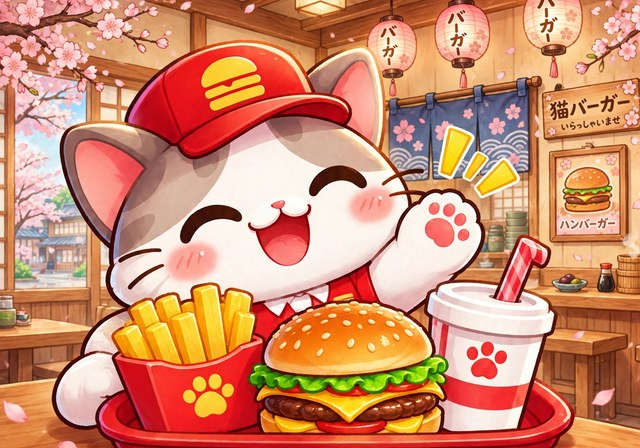
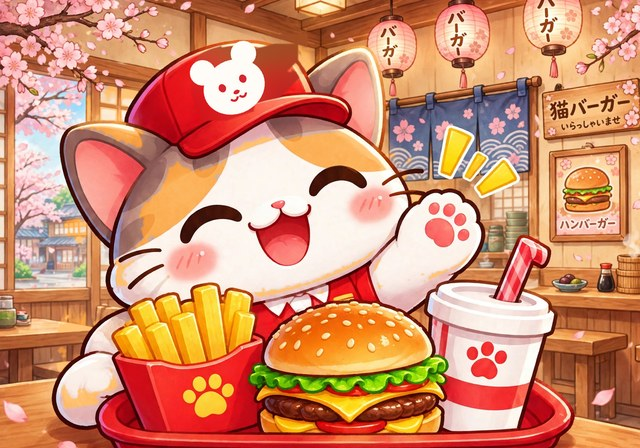
Meow Sakura v1.0.1: character motion fixes, art matched to the player
- Player: use the drawn 4-frame walks facing / away from the camera;
  fix the carry tray point when walking away; idle_270 uses the
  matching profile
- Walk frames fitted to the idle head height (src/19_char_fit.js,
  tools/char_fit.py); no head dip on diagonal / side walks
- Side characters: one drawn walk now serves the diagonal front
  directions too; sideways idle shows the front three-quarter view
- Loading, icons and popups: kit cat recoloured to the player's
  orange with the player's bear cap logo (tools/sakura_cat.py)
- Map stage pictures restyled with pink roofs and sakura
- Character images unchanged; tests/charstrip.js for review

Tests: qa_native 44/44, hs-check 0 fail, full bot 40:47, 0 lost.

Claude-Session: https://claude.ai/code/session_013on7xBLVL2ZtzXn7t1WNZ6

diff --git a/src/60_ui.js b/src/60_ui.js
@@ -97,9 +97,9 @@ const UI={
 function fmtTime(s){s=Math.floor(s);return Math.floor(s/60)+':'+String(s%60).padStart(2,'0')}
 function phaseOf(ti){for(let i=TASK_PHASE.length-1;i>=0;i--){const a=taskIndex(TASK_PHASE[i].from);if(ti>=a){const b=taskIndex(TASK_PHASE[i].to);return{start:a,total:b-a+1}}}return{start:0,total:1}}
 const STAGE_DESC=['Cash register, chicken fryer, tables and the first drink.','Walls go up: storage shelf, burger grill, manager office.','New dining hall, fries, salad, runners, cleaner and the VIP booth.','Bigger kitchen, the Deluxe Burger, second floor and the grand opening.'];
-const STAGE_ART=[
- '<svg viewBox="0 0 120 80"><rect width="120" height="80" rx="10" fill="#cfeaf3"/><rect y="56" width="120" height="24" fill="#dcd3c4"/><rect x="34" y="40" width="52" height="22" fill="#d98f52" stroke="#5a3424" stroke-width="2.5"/><path d="M28 24h64l-4 12H32z" fill="#fff" stroke="#5a3424" stroke-width="2.5"/><path d="M36 24l-2 12M52 24v12M68 24v12M84 24l2 12" stroke="#e2463f" stroke-width="7"/><circle cx="42" cy="64" r="6" fill="#5a3424"/><circle cx="78" cy="64" r="6" fill="#5a3424"/><circle cx="102" cy="40" r="12" fill="#6fb24f" stroke="#5a3424" stroke-width="2.5"/></svg>',
- '<svg viewBox="0 0 120 80"><rect width="120" height="80" rx="10" fill="#cfeaf3"/><rect y="60" width="120" height="20" fill="#a3d06e"/><path d="M22 34l38-20 38 20v30H22z" fill="#f8e6c2" stroke="#5a3424" stroke-width="2.5"/><path d="M16 36l44-24 44 24" fill="none" stroke="#e2463f" stroke-width="6" stroke-linecap="round"/><rect x="52" y="44" width="16" height="20" fill="#b06a36" stroke="#5a3424" stroke-width="2.5"/><rect x="30" y="40" width="14" height="12" fill="#bfe5f3" stroke="#5a3424" stroke-width="2.5"/><rect x="76" y="40" width="14" height="12" fill="#bfe5f3" stroke="#5a3424" stroke-width="2.5"/></svg>',
- '<svg viewBox="0 0 120 80"><rect width="120" height="80" rx="10" fill="#cfeaf3"/><rect y="60" width="120" height="20" fill="#a3d06e"/><path d="M8 36l28-16 28 16v28H8zM56 30l30-18 30 18v34H56z" fill="#f8e6c2" stroke="#5a3424" stroke-width="2.5"/><path d="M4 38l32-18 32 18M52 32l34-20 34 20" fill="none" stroke="#e2463f" stroke-width="5" stroke-linecap="round"/><rect x="78" y="44" width="16" height="20" fill="#b06a36" stroke="#5a3424" stroke-width="2.5"/><rect x="18" y="42" width="12" height="10" fill="#bfe5f3" stroke="#5a3424" stroke-width="2"/><rect x="40" y="42" width="12" height="10" fill="#bfe5f3" stroke="#5a3424" stroke-width="2"/><rect x="62" y="38" width="10" height="10" fill="#bfe5f3" stroke="#5a3424" stroke-width="2"/><rect x="100" y="38" width="10" height="10" fill="#bfe5f3" stroke="#5a3424" stroke-width="2"/></svg>',
- '<svg viewBox="0 0 120 80"><rect width="120" height="80" rx="10" fill="#cfeaf3"/><rect y="64" width="120" height="16" fill="#a3d06e"/><path d="M20 30l40-22 40 22v36H20z" fill="#f8e6c2" stroke="#5a3424" stroke-width="2.5"/><path d="M14 32l46-26 46 26" fill="none" stroke="#e2463f" stroke-width="5" stroke-linecap="round"/><path d="M20 46h80" stroke="#b06a36" stroke-width="4"/><path d="M24 44v-6M36 44v-6M48 44v-6M72 44v-6M84 44v-6M96 44v-6" stroke="#b06a36" stroke-width="2.5"/><rect x="52" y="50" width="16" height="16" fill="#b06a36" stroke="#5a3424" stroke-width="2.5"/><rect x="30" y="26" width="12" height="10" fill="#bfe5f3" stroke="#5a3424" stroke-width="2"/><rect x="78" y="26" width="12" height="10" fill="#bfe5f3" stroke="#5a3424" stroke-width="2"/><circle cx="60" cy="24" r="5" fill="#f8c84a" stroke="#5a3424" stroke-width="2"/></svg>',
+const STAGE_ART=[ /* Meow Sakura: pink roofs and awning, sakura trees and petals */
+ '<svg viewBox="0 0 120 80"><rect width="120" height="80" rx="10" fill="#cfeaf3"/><rect y="56" width="120" height="24" fill="#dcd3c4"/><rect x="34" y="40" width="52" height="22" fill="#d98f52" stroke="#5a3424" stroke-width="2.5"/><path d="M28 24h64l-4 12H32z" fill="#fff" stroke="#5a3424" stroke-width="2.5"/><path d="M36 24l-2 12M52 24v12M68 24v12M84 24l2 12" stroke="#ef7f9d" stroke-width="7"/><circle cx="42" cy="64" r="6" fill="#5a3424"/><circle cx="78" cy="64" r="6" fill="#5a3424"/><circle cx="102" cy="40" r="12" fill="#f5a9be" stroke="#5a3424" stroke-width="2.5"/><g fill="#f9b8c9"><circle cx="12" cy="14" r="2"/><circle cx="110" cy="10" r="1.6"/><circle cx="104" cy="22" r="1.4"/><circle cx="18" cy="26" r="1.4"/></g></svg>',
+ '<svg viewBox="0 0 120 80"><rect width="120" height="80" rx="10" fill="#cfeaf3"/><rect y="60" width="120" height="20" fill="#a3d06e"/><path d="M22 34l38-20 38 20v30H22z" fill="#f8e6c2" stroke="#5a3424" stroke-width="2.5"/><path d="M16 36l44-24 44 24" fill="none" stroke="#ef7f9d" stroke-width="6" stroke-linecap="round"/><rect x="52" y="44" width="16" height="20" fill="#b06a36" stroke="#5a3424" stroke-width="2.5"/><rect x="30" y="40" width="14" height="12" fill="#bfe5f3" stroke="#5a3424" stroke-width="2.5"/><rect x="76" y="40" width="14" height="12" fill="#bfe5f3" stroke="#5a3424" stroke-width="2.5"/><g fill="#f9b8c9"><circle cx="12" cy="14" r="2"/><circle cx="110" cy="10" r="1.6"/><circle cx="104" cy="22" r="1.4"/><circle cx="18" cy="26" r="1.4"/></g><path d="M106 64v-12" stroke="#8a5a40" stroke-width="3"/><circle cx="106" cy="46" r="9" fill="#f5a9be" stroke="#c97894" stroke-width="2"/><circle cx="103" cy="43" r="3.5" fill="#fcc6d4"/><g stroke="#5a3424" stroke-width="1.5"><ellipse cx="30" cy="38" rx="3.5" ry="4.5" fill="#fff3e6"/><ellipse cx="90" cy="38" rx="3.5" ry="4.5" fill="#fff3e6"/></g><path d="M26.5 37h7M86.5 37h7" stroke="#e8506a" stroke-width="1.5"/></svg>',
+ '<svg viewBox="0 0 120 80"><rect width="120" height="80" rx="10" fill="#cfeaf3"/><rect y="60" width="120" height="20" fill="#a3d06e"/><path d="M8 36l28-16 28 16v28H8zM56 30l30-18 30 18v34H56z" fill="#f8e6c2" stroke="#5a3424" stroke-width="2.5"/><path d="M4 38l32-18 32 18M52 32l34-20 34 20" fill="none" stroke="#ef7f9d" stroke-width="5" stroke-linecap="round"/><rect x="78" y="44" width="16" height="20" fill="#b06a36" stroke="#5a3424" stroke-width="2.5"/><rect x="18" y="42" width="12" height="10" fill="#bfe5f3" stroke="#5a3424" stroke-width="2"/><rect x="40" y="42" width="12" height="10" fill="#bfe5f3" stroke="#5a3424" stroke-width="2"/><rect x="62" y="38" width="10" height="10" fill="#bfe5f3" stroke="#5a3424" stroke-width="2"/><rect x="100" y="38" width="10" height="10" fill="#bfe5f3" stroke="#5a3424" stroke-width="2"/><g fill="#f9b8c9"><circle cx="12" cy="14" r="2"/><circle cx="110" cy="10" r="1.6"/><circle cx="104" cy="22" r="1.4"/><circle cx="18" cy="26" r="1.4"/></g></svg>',
+ '<svg viewBox="0 0 120 80"><rect width="120" height="80" rx="10" fill="#cfeaf3"/><rect y="64" width="120" height="16" fill="#a3d06e"/><path d="M20 30l40-22 40 22v36H20z" fill="#f8e6c2" stroke="#5a3424" stroke-width="2.5"/><path d="M14 32l46-26 46 26" fill="none" stroke="#ef7f9d" stroke-width="5" stroke-linecap="round"/><path d="M20 46h80" stroke="#b06a36" stroke-width="4"/><path d="M24 44v-6M36 44v-6M48 44v-6M72 44v-6M84 44v-6M96 44v-6" stroke="#b06a36" stroke-width="2.5"/><rect x="52" y="50" width="16" height="16" fill="#b06a36" stroke="#5a3424" stroke-width="2.5"/><rect x="30" y="26" width="12" height="10" fill="#bfe5f3" stroke="#5a3424" stroke-width="2"/><rect x="78" y="26" width="12" height="10" fill="#bfe5f3" stroke="#5a3424" stroke-width="2"/><circle cx="60" cy="24" r="5" fill="#f8c84a" stroke="#5a3424" stroke-width="2"/><g fill="#f9b8c9"><circle cx="12" cy="14" r="2"/><circle cx="110" cy="10" r="1.6"/><circle cx="104" cy="22" r="1.4"/><circle cx="18" cy="26" r="1.4"/></g><path d="M106 64v-12" stroke="#8a5a40" stroke-width="3"/><circle cx="106" cy="46" r="9" fill="#f5a9be" stroke="#c97894" stroke-width="2"/><circle cx="103" cy="43" r="3.5" fill="#fcc6d4"/></svg>',
 ];

diff --git a/src/50_render.js b/src/50_render.js
@@ -57,17 +57,19 @@ function drawStaff(e,name,anim){
 /* ---- customers / VIP / cleaner / manager: approved art (8-direction idle; drawn walk cycles where the sheet has them,
         otherwise the body stays still and only the leg strip steps) ---- */
 const SHEET_H={chef:1.06,cashier:1.0,waiter:1.0,cleaner:1.0,cat01:.95,cat02:.95,cat03:.95,cat04:.95,vip01:1.0,vip02:1.0,manager:1.0};
-/* Meow Sakura sheets: the player has a full 8-direction walk + tray-carry set; the other roles have one drawn walk
-   (screen-right, mirrored for screen-left) and step their legs on the 8-direction idle art for the other directions.
-   A few side-profile idles lost face fill when cut, so those directions reuse the clean neighbour view. */
-const SIDE_WALK={walk:{90:[270,1]}};
+/* Character sheets: the player has a full 8-direction walk + tray-carry set; the other roles have one drawn walk
+   (front three-quarter, screen-right). That walk serves screen-right (270) and down-right (315) as drawn, and screen-left (90)
+   and down-left (45) mirrored; the other directions step the legs on the 8-direction idle art.
+   Standing sideways (90/270) shows the front three-quarter idle, the same view as the walk, so a cat does not turn its back
+   when it stops (this also covers the side idles that lost face fill when cut). The player's idle_270 is drawn as a back
+   view, so it uses idle_90 mirrored, which matches its walk_270 profile. Walk frames are fitted to the idle head height by
+   CHAR_FIT (src/19_char_fit.js, tools/char_fit.py; keep the two remap tables in step). */
+const SIDE_REMAP={idle:{90:[45,0],270:[315,0]},walk:{45:[270,1],90:[270,1],315:[270,0]}};
 const SHEET_REMAP={
-  chef:{walk:{0:'legs',180:'legs'}},
-  cashier:SIDE_WALK, waiter:SIDE_WALK, cleaner:SIDE_WALK, cat01:SIDE_WALK, cat03:SIDE_WALK, vip02:SIDE_WALK,
-  cat02:{idle:{90:[45,0],270:[315,0]},walk:{90:[270,1]}},
-  cat04:{idle:{135:[225,1]},walk:{90:[270,1]}},
-  vip01:{idle:{90:[270,1]},walk:{90:[270,1]}},
-  manager:{idle:{90:[270,1]},walk:{90:[270,1]}},
+  chef:{idle:{270:[90,1]}},
+  cashier:SIDE_REMAP, waiter:SIDE_REMAP, cleaner:SIDE_REMAP, cat01:SIDE_REMAP, cat02:SIDE_REMAP, cat03:SIDE_REMAP,
+  vip01:SIDE_REMAP, vip02:SIDE_REMAP, manager:SIDE_REMAP,
+  cat04:{idle:{90:[45,0],270:[315,0],45:[315,1],135:[225,1]},walk:SIDE_REMAP.walk},   /* cat04 idle_45 / idle_135: tail clipped when cut */
 };
 /* number of drawn walk frames per set/direction (the new sheets have 5–8) */
 const WALK_N={}; function walkN(name,d){ const key=name+d; if(WALK_N[key]===undefined){ let n=0; while(MORE_SPRITES[name]['walk'+(n+1)+'_'+d]) n++; WALK_N[key]=n; } return WALK_N[key]; }
@@ -84,20 +86,23 @@ function drawSheetChar(e,name,anim,opts={}){
   else if(anim==='collect'&&set.collect) pose(set.collect);
   else if(anim==='tablet'&&set.tablet1) pose(set['tablet'+(1+Math.floor(t*3)%4)]);
   else if(anim==='talk'&&set.talk_happy) pose(set.talk_happy);
-  else if(e.carry&&e.carry.length&&!seated&&set['cwalk1_'+d]){ if(walking&&(d===0||d===180)){ m=set['cwalk1_'+d]; legs=true; } else m=set['cwalk'+(walking?1+Math.floor(t*8)%4:1)+'_'+d]; flip=0; }
+  else if(e.carry&&e.carry.length&&!seated&&set['cwalk1_'+d]){ m=set['cwalk'+(walking?1+Math.floor(t*8)%4:1)+'_'+d]; flip=0; }
   else if(walking){ const rw=rm.walk&&rm.walk[d];
-    if(rw==='legs'||!set['walk1_'+d]) legs=true;
-    else { const [wd,wf]=rw||[d,0], n=walkN(name,wd)||4; m=set['walk'+(1+Math.floor(t*(n>4?11:8))%n)+'_'+wd]; flip=wf; } }
+    const [wd,wf]=Array.isArray(rw)?rw:[d,0];
+    if(rw==='legs'||!set['walk1_'+wd]) legs=true;   /* no drawn walk for this direction: step the legs on the idle art */
+    else { const n=walkN(name,wd)||4; m=set['walk'+(1+Math.floor(t*(n>4?11:8))%n)+'_'+wd]; flip=wf; } }
   if(!m||!m.img) return [sx,sy0];
   const k=TW*(SHEET_H[name]||1)/150*(opts.scale||1)*m.s;
   let sy=sy0, dx=0, sqx=1, sqy=1;
+  const fitK=m.key&&CHAR_FIT[name]&&CHAR_FIT[name][m.key]; if(fitK&&!legs) sqy=fitK[d]||1;   /* walk frame fitted to the idle head height */
   if(anim==='happy') sy-=Math.abs(Math.sin(t*7))*TW*.05;
   if(anim==='mad'||anim==='sitmad') dx=Math.sin(t*38)*TW*.012;
   if(anim==='eat'){ const b=Math.max(0,Math.sin(t*6)); sqy=1-b*.035; sqx=1+b*.02; }
   if(!walking&&!seated&&anim!=='sleep'){ const br=Math.sin(t*2.2+(e.seed||0))*.012; sqy*=1+br; sqx*=1-br*.5; }
   if(!seated){ctx.save();ctx.fillStyle=COL.shadow;ctx.beginPath();ctx.ellipse(sx,sy0,TW*.24*(opts.scale||1),TW*.085*(opts.scale||1),0,0,7);ctx.fill();ctx.restore();}
-  const hand=m.tray?m.tray:(SHEET_HAND[d]||SHEET_HAND[0]);
-  const hx=sx+(hand[0]*m.w-m.ax)*k, hy=sy+(hand[1]*m.h-m.ay)*k;
+  const trayFix=m.key&&CHAR_TRAY[name]&&CHAR_TRAY[name][m.key];
+  const hand=trayFix||m.tray||(SHEET_HAND[d]||SHEET_HAND[0]);
+  const hx=sx+(hand[0]*m.w-m.ax)*k, hy=sy+(hand[1]*m.h-m.ay)*k*sqy;
   const holding=e.carry&&e.carry.length&&!seated&&anim!=='sleep';
   const back=d>=135&&d<=225;
   const stack=()=>drawHeldStack(e.carry,hx,hy,opts.customer,!!m.tray);

diff --git a/src/19_char_fit.js b/src/19_char_fit.js
@@ -1,0 +1,4 @@
+/* 19_char_fit.js — per-frame vertical fit of walk / carry-walk frames to the idle head height, and tray-point overrides.
+   AUTO-GENERATED by tools/char_fit.py from src/16_more_sprites.js (character art unchanged). */
+const CHAR_FIT={"chef":{"walk1_0":{"0":0.995},"walk2_0":{"0":0.989},"walk3_0":{"0":0.995},"walk4_0":{"0":0.983},"cwalk1_0":{"0":1.016},"cwalk2_0":{"0":1.011},"cwalk3_0":{"0":1.016},"cwalk4_0":{"0":1.011},"walk1_45":{"45":1.09},"walk2_45":{"45":1.09},"walk3_45":{"45":1.087},"walk4_45":{"45":1.08},"cwalk1_45":{"45":1.09},"cwalk2_45":{"45":1.09},"cwalk3_45":{"45":1.09},"cwalk4_45":{"45":1.082},"walk1_90":{"90":1.074},"walk2_90":{"90":1.06},"walk3_90":{"90":1.06},"walk4_90":{"90":1.053},"cwalk1_90":{"90":1.037},"cwalk2_90":{"90":1.025},"cwalk3_90":{"90":1.013},"cwalk4_90":{"90":0.996},"walk1_135":{"135":1.002},"walk2_135":{"135":1.002},"walk3_135":{"135":1.002},"walk4_135":{"135":1.002},"cwalk1_135":{"135":1.042},"cwalk2_135":{"135":1.055},"cwalk3_135":{"135":1.042},"cwalk4_135":{"135":1.035},"walk1_180":{"180":0.945},"walk2_180":{"180":0.934},"walk3_180":{"180":0.945},"walk4_180":{"180":0.94},"cwalk1_180":{"180":0.955},"cwalk2_180":{"180":0.95},"cwalk3_180":{"180":0.944},"cwalk4_180":{"180":0.944},"walk1_225":{"225":1.008},"walk2_225":{"225":1.008},"walk3_225":{"225":1.008},"walk4_225":{"225":1.008},"cwalk1_225":{"225":1.023},"cwalk2_225":{"225":1.035},"cwalk3_225":{"225":1.023},"cwalk4_225":{"225":1.023},"walk1_270":{"270":1.04},"walk2_270":{"270":1.06},"walk3_270":{"270":1.047},"walk4_270":{"270":1.047},"cwalk1_270":{"270":1.031},"cwalk2_270":{"270":0.99},"cwalk3_270":{"270":1.031},"cwalk4_270":{"270":1.013},"walk1_315":{"315":1.09},"walk2_315":{"315":1.09},"walk3_315":{"315":1.09},"walk4_315":{"315":1.082},"cwalk1_315":{"315":1.09},"cwalk2_315":{"315":1.09},"cwalk3_315":{"315":1.09},"cwalk4_315":{"315":1.09}},"cashier":{"walk1_270":{"45":1.027,"90":1.027,"270":1.031,"315":1.031},"walk2_270":{"45":1.027,"90":1.027,"270":1.031,"315":1.031},"walk3_270":{"45":1.027,"90":1.027,"270":1.031,"315":1.031},"walk4_270":{"45":1.027,"90":1.027,"270":1.031,"315":1.031}},"waiter":{"walk1_270":{"45":1.026,"90":1.026,"270":1.031,"315":1.031},"walk2_270":{"45":1.026,"90":1.026,"270":1.031,"315":1.031},"walk3_270":{"45":1.026,"90":1.026,"270":1.031,"315":1.031},"walk4_270":{"45":1.026,"90":1.026,"270":1.031,"315":1.031}},"cleaner":{"walk1_270":{"45":1.029,"90":1.029,"270":1.029,"315":1.029},"walk2_270":{"45":1.029,"90":1.029,"270":1.029,"315":1.029},"walk3_270":{"45":1.029,"90":1.029,"270":1.029,"315":1.029},"walk4_270":{"45":1.029,"90":1.029,"270":1.029,"315":1.029}},"cat01":{"walk1_270":{"45":1.031,"90":1.031,"270":1.031,"315":1.031},"walk2_270":{"45":1.031,"90":1.031,"270":1.031,"315":1.031},"walk3_270":{"45":1.031,"90":1.031,"270":1.031,"315":1.031},"walk4_270":{"45":1.035,"90":1.035,"270":1.035,"315":1.035}},"cat02":{"walk1_270":{"45":1.029,"90":1.029,"270":1.029,"315":1.029},"walk2_270":{"45":1.033,"90":1.033,"270":1.033,"315":1.033},"walk3_270":{"45":1.029,"90":1.029,"270":1.029,"315":1.029},"walk4_270":{"45":1.033,"90":1.033,"270":1.033,"315":1.033}},"cat03":{"walk1_270":{"45":1.031,"90":1.031,"270":1.026,"315":1.026},"walk2_270":{"45":1.035,"90":1.035,"270":1.031,"315":1.031},"walk3_270":{"45":1.031,"90":1.031,"270":1.026,"315":1.026},"walk4_270":{"45":1.031,"90":1.031,"270":1.026,"315":1.026}},"cat04":{"walk1_270":{"45":1.031,"90":1.031,"270":1.031,"315":1.031},"walk2_270":{"45":1.022,"90":1.022,"270":1.022,"315":1.022},"walk3_270":{"45":1.031,"90":1.031,"270":1.031,"315":1.031},"walk4_270":{"45":1.031,"90":1.031,"270":1.031,"315":1.031}},"vip01":{"walk1_270":{"45":1.031,"90":1.031,"270":1.031,"315":1.031},"walk2_270":{"45":1.031,"90":1.031,"270":1.031,"315":1.031},"walk3_270":{"45":1.031,"90":1.031,"270":1.031,"315":1.031},"walk4_270":{"45":1.026,"90":1.026,"270":1.026,"315":1.026}},"vip02":{"walk1_270":{"45":1.031,"90":1.031,"270":1.026,"315":1.026},"walk2_270":{"45":1.031,"90":1.031,"270":1.026,"315":1.026},"walk3_270":{"45":1.031,"90":1.031,"270":1.026,"315":1.026},"walk4_270":{"45":1.031,"90":1.031,"270":1.026,"315":1.026}},"manager":{"walk1_270":{"45":1.031,"90":1.031,"270":1.031,"315":1.031},"walk2_270":{"45":1.031,"90":1.031,"270":1.031,"315":1.031},"walk3_270":{"45":1.031,"90":1.031,"270":1.031,"315":1.031},"walk4_270":{"45":1.031,"90":1.031,"270":1.031,"315":1.031}}};
+const CHAR_TRAY={"chef":{"cwalk1_180":[0.5,0.5],"cwalk2_180":[0.5,0.5],"cwalk3_180":[0.5,0.5],"cwalk4_180":[0.5,0.5]}};

diff --git a/tests/charstrip.js b/tests/charstrip.js
@@ -1,0 +1,27 @@
+// Renders a character's frames in the real renderer, for art review.
+// usage: node tests/charstrip.js OUT.png [who=player|<worker role>|<customer skin>] [carry=1] [anims=walk]
+const {chromium}=require('/opt/npm-tools/node_modules/playwright');const fs=require('fs'),path=require('path'),http=require('http');
+const DIST=path.join(__dirname,'..','dist');
+const srv=http.createServer((q,r)=>fs.readFile(path.join(DIST,q.url==='/'?'index.html':q.url.split('?')[0]),(e,d)=>{if(e){r.statusCode=404;return r.end()}r.end(d)}));
+const [OUT,WHO='player',CARRY='0',ANIM='walk']=process.argv.slice(2);
+(async()=>{await new Promise(ok=>srv.listen(0,ok));const b=await chromium.launch();const p=await b.newPage({viewport:{width:400,height:400},deviceScaleFactor:1});
+ await p.goto(`http://localhost:${srv.address().port}/index.html`);await p.waitForFunction(()=>window.__cpStarted,null,{timeout:60000});
+ const urls=await p.evaluate(([WHO,CARRY,ANIM])=>{const A=__cp;A.DEBUG.noModal=true;try{A.UI.close()}catch(e){};A.DEBUG.zoom=2.4;window.dispatchEvent(new Event('resize'));
+  const pl=A.player; pl.x=9;pl.y=4; const cv=document.getElementById('game'), out=[];
+  let e=pl; const hide=[];
+  if(WHO!=='player'){ e={x:10.2,y:2.8,dir:0,t:0,carry:[],seed:0,skin:WHO,walking:false}; }
+  const dirs=[0,45,90,135,180,225,270,315];
+  for(const d of dirs){ const row=[];
+    for(let f=0;f<5;f++){ const walking=f>0;
+      if(WHO==='player'){ pl.dir=d; pl.walking=walking; pl.carry=CARRY==='1'?['pizza','drink','pizza']:[]; pl.t=walking?(f-1)/8+.01:0; pl.happyT=0; }
+      else { e.dir=d; e.walking=walking; e.carry=CARRY==='1'?['pizza']:[]; e.t=walking?(f-1)/11+.01:0; }
+      A.customers.length=0; for(const w of A.workers) w.x=-50;
+      for(let i=0;i<40;i++) A.render();
+      if(WHO!=='player'){ /* draw the extra character on top through the customer list */ A.customers.push(Object.assign(e,{state:walking?'enter':'queue',patience:9,pMax:9,order:{},got:{}})); A.render(); A.customers.length=0; }
+      const W=cv.width,H=cv.height, c=document.createElement('canvas'); const X0=WHO==='player'?.3:.52; c.width=W*.4; c.height=H*.55; c.getContext('2d').drawImage(cv,W*X0,H*.12,W*.4,H*.55,0,0,W*.4,H*.55); row.push(c.toDataURL()); }
+    out.push(row); }
+  return out; },[WHO,CARRY,ANIM]);
+ const pg=await b.newPage({viewport:{width:900,height:1800}});
+ await pg.setContent('<body style="margin:0;background:#fff">'+urls.map(r=>'<div style="display:flex">'+r.map(u=>`<img src="${u}">`).join('')+'</div>').join('')+'</body>');
+ await pg.waitForTimeout(300); await pg.screenshot({path:OUT,fullPage:true});
+ await b.close();srv.close();})();

diff --git a/src/23_assets.js b/src/23_assets.js
@@ -66,7 +66,7 @@ async function preloadAssets(onProgress){
      raw_* the same art, paler and less baked, for the oven / prep board. Baked at 3x for crisp high-DPI rendering. */
   for(const k in FOOD_ART) jobs.push(async()=>{ try{ const im=await loadImage(FOOD_ART[k]); bakeFoodArt(k,im); ASSET_REPORT.loaded++; } catch(err){ ASSET_REPORT.missing.push('food_'+k); } });
   for(const k in KIT_OBJ) jobs.push(async()=>{ try{ const im=await loadImage(KIT_OBJ[k].src); bakeKitObj(k,im,KIT_OBJ[k]); ASSET_REPORT.loaded++; } catch(err){ ASSET_REPORT.missing.push('kit_'+k); } });
-  for(const name in MORE_SPRITES) for(const pose in MORE_SPRITES[name]){ const m=MORE_SPRITES[name][pose];
+  for(const name in MORE_SPRITES) for(const pose in MORE_SPRITES[name]){ const m=MORE_SPRITES[name][pose]; m.key=pose;
     jobs.push(async()=>{ try{ m.img=await loadImage(m.src); ASSET_REPORT.loaded++; } catch(err){ ASSET_REPORT.missing.push(name+'_'+pose); } }); }
   for(const k in ENV_ART) jobs.push(async()=>{ try{ const im=await loadImage(ENV_ART[k].src); ENV[k]={img:im,w:ENV_ART[k].w,h:ENV_ART[k].h,tip:ENV_ART[k].tip||.5}; ASSET_REPORT.loaded++; } catch(err){ ASSET_REPORT.missing.push('env_'+k); } });
   let done=0; const total=jobs.length||1, q=jobs.slice();

diff --git a/src/00_config.js b/src/00_config.js
@@ -1,7 +1,7 @@
 /* =====================================================================
    00_config.js — every tunable number lives here (data-driven design)
    ===================================================================== */
-const VERSION='1.0.0';   /* Meow Sakura */
+const VERSION='1.0.1';   /* Meow Sakura */
 const SAVE_KEY='meowsakura.v3', LEGACY_SAVE_KEY='meowsakura.v0'; /* v4 keeps the v3 save format */
 const REF=144;          // sprite resolution: px per tile width for object sprites
 const REF_C=128;        // sprite resolution for character sheets

diff --git a/tools/sakura_cat.py b/tools/sakura_cat.py
@@ -1,0 +1,106 @@
+# Meow Sakura: make the cat in the TikTok UI art (loading, icon, popups) look like the player cat.
+# The kit art shows a grey-and-white cat with a burger logo on its cap; the player is an orange-and-cream cat with a
+# white bear-face logo on its red cap. This recolours the grey fur to the player's orange (hue shift that keeps the
+# shading; white fur stays white / turns cream at the edges) and replaces the cap logo with the player's bear face.
+# Used by tools/sakura_art.py. Regions are hand-placed per kit image (pixel coordinates of the kit files).
+import numpy as np
+from PIL import Image,ImageDraw,ImageFilter
+from matplotlib.colors import rgb_to_hsv,hsv_to_rgb
+import cv2
+CAT={  # kit file -> fur polygons, cap-logo search box
+ 'icon_512_jp.png':dict(poly=[[(165,380),(330,250),(820,170),(1000,160),(1060,250),(1100,520),(1200,560),(1260,640),(1250,800),(1150,860),(700,900),(260,880),(250,820),(240,700),(170,620)],
+                              [(60,1050),(200,980),(230,1250),(70,1300)]],logo=(500,200,760,380)),
+ 'pop_share_art_jp.jpg':dict(poly=[[(150,330),(330,160),(800,120),(1000,105),(1095,125),(1100,300),(1150,480),(1310,560),(1320,700),(1150,780),(800,820),(300,780),(200,700),(150,520)],
+                                   [(180,850),(330,860),(330,1100),(180,1120),(150,950)]],logo=(520,120,820,320),it=4,t=.7),
+ 'loading_bg_jp.jpg':dict(poly=[[(200,1040),(300,960),(650,930),(800,940),(820,1100),(900,1130),(960,1250),(820,1330),(560,1360),(330,1340),(240,1260),(200,1150)]],logo=(400,900,620,1060),it=4,t=.7),
+ 'pop_home_art_jp.jpg':dict(poly=[[(1030,300),(1130,270),(1200,205),(1400,205),(1420,250),(1425,350),(1490,370),(1500,460),(1400,490),(1230,470),(1100,480),(1050,430)]],logo=(1170,190,1290,300),it=3),
+ 'pop_revisit_profile_jp.jpg':dict(poly=[[(370,760),(400,700),(470,650),(560,640),(620,640),(690,650),(720,720),(730,820),(700,880),(560,900),(430,920),(380,880)]],logo=(440,650,560,740),it=3),
+}
+ORANGE_H=0.094
+def smooth(x,a,b): t=np.clip((x-a)/(b-a),0,1); return t*t*(3-2*t)
+RAMP=np.array([[.30,(150,70,24)],[.62,(226,124,42)],[.84,(250,166,72)],[.97,(255,196,118)],[1.0,(255,214,150)]],dtype=object)
+def ramp(v):
+    xs=np.array([r[0] for r in RAMP],float); cs=np.array([r[1] for r in RAMP],float)
+    return np.stack([np.interp(v,xs,cs[:,k]) for k in range(3)],-1)/255
+def cat_mask(A,poly,it=6,t=.6):
+    """the cat's own areas: regions between the dark outlines that lie mostly inside the hand-placed polygon"""
+    from scipy import ndimage
+    v=A[...,:3].max(2)/255; dark=ndimage.binary_dilation(v<t,iterations=it)   # thick enough to close gaps in the outline
+    lab,n=ndimage.label(~dark); P=poly>.5
+    area=ndimage.sum(np.ones_like(P),lab,range(1,n+1)); inside=ndimage.sum(P,lab,range(1,n+1))
+    keep=np.zeros(n+1,bool); keep[1:]=(inside/np.maximum(area,1)>.3)
+    m=keep[lab]&P; m=ndimage.binary_dilation(m,iterations=it+2)&ndimage.binary_dilation(P,iterations=3)
+    return m.astype(float)
+def recolor_fur(A,mask):
+    rgb=A[...,:3].astype(float)/255; hsv=rgb_to_hsv(rgb); h,s,v=hsv[...,0],hsv[...,1],hsv[...,2]
+    hdeg=h*360
+    # the kit's grey fur is warm in the light (hue 12-50) and cool / pinkish in the shade; pinks with more colour
+    # (inner ears, blush, nose, tongue) and white fur are left alone
+    pinkz=(hdeg>=330)|(hdeg<12); coolz=(hdeg>=285)&(hdeg<330); warmz=(hdeg>=12)&(hdeg<52)
+    w=(pinkz*smooth(s,.06,.10)*(1-smooth(s,.22,.28))+coolz*smooth(s,.06,.10)*(1-smooth(s,.32,.40))
+       +(s<.08)*smooth(v,.40,.46)*(1-smooth(v,.74,.82))   # neutral grey (ear backs)
+       +warmz*smooth(s,.08+.10*smooth(v,.86,.97),.14+.10*smooth(v,.86,.97))*(1-smooth(s,.55,.65)))*smooth(v,.40,.50)   # pale warm shading on white fur stays white
+    # soft pink blush fades through fur-like tones: keep a ring around strong pinks out of the recolour
+    from scipy import ndimage
+    pink=((hdeg>=330)|(hdeg<12))&(s>.25)&(v>.6)
+    near=ndimage.binary_dilation(pink,iterations=max(3,int(A.shape[1]/160)))
+    w=w*(1-near)
+    w=np.clip(w*mask,0,1)
+    w=np.array(Image.fromarray((w*255).astype(np.uint8)).filter(ImageFilter.MedianFilter(5)).filter(ImageFilter.GaussianBlur(1.5))).astype(float)/255
+    # grey fur -> the player's orange: the darker the grey, the deeper the orange (keeps the painted shading)
+    vn=np.clip((v-.55)/(.93-.55),0,1)*.37+.6   # map the kit's grey range onto the ramp's orange range
+    new=ramp(vn)
+    out=rgb*(1-w[...,None])+new*w[...,None]
+    return (out*255).round().astype(np.uint8), w
+def bear(d,cx,cy,S,fg=(255,251,246),red=(214,40,46)):
+    """the player's cap logo: white bear head with red eyes and mouth (S = head width)"""
+    for ex in (-1,1): d.ellipse([cx+ex*.36*S-.2*S,cy-.42*S-.2*S,cx+ex*.36*S+.2*S,cy-.42*S+.2*S],fill=fg)
+    d.ellipse([cx-.5*S,cy-.43*S,cx+.5*S,cy+.43*S],fill=fg)
+    for ex in (-1,1): d.ellipse([cx+ex*.18*S-.055*S,cy-.06*S-.065*S,cx+ex*.18*S+.055*S,cy-.06*S+.065*S],fill=red)
+    d.ellipse([cx-.05*S,cy+.06*S,cx+.05*S,cy+.12*S],fill=red)
+    lw=max(1,int(S*.035)); d.arc([cx-.15*S,cy+.06*S,cx,cy+.22*S],20,160,fill=red,width=lw); d.arc([cx,cy+.06*S,cx+.15*S,cy+.22*S],20,160,fill=red,width=lw)
+def replace_logo(A,box):
+    x0,y0,x1,y1=box; sub=A[y0:y1,x0:x1,:3].astype(int); r,g,b=sub[...,0],sub[...,1],sub[...,2]
+    yel=(r>200)&(g>140)&(b<130)&(r-b>90)&(g-b>40)
+    from scipy import ndimage
+    lab,n=ndimage.label(ndimage.binary_closing(yel,iterations=2))
+    if not n: return A
+    sz=ndimage.sum(yel,lab,range(1,n+1)); big=sz.max()
+    m=np.isin(lab,[i+1 for i,z in enumerate(sz) if z>=.08*big])   # every bar of the burger logo
+    # the logo is a stack of yellow bars with dark lines between them: fill its hull
+    ys,xs=np.nonzero(m); pts=np.stack([xs,ys],1).astype(np.int32); hull=cv2.convexHull(pts)
+    full=np.zeros(A.shape[:2],np.uint8); cv2.fillConvexPoly(full,hull+np.array([x0,y0]),255)
+    cx,cy=xs.mean()+x0,ys.mean()+y0; W_=xs.max()-xs.min(); H_=ys.max()-ys.min()
+    # tilt of the logo (bars run along its long axis)
+    c=np.cov(np.stack([xs,ys]).astype(float)); ev,evec=np.linalg.eigh(c); ang=np.degrees(np.arctan2(evec[1,1],evec[0,1]))
+    if ang>90: ang-=180
+    if ang<-90: ang+=180
+    full=cv2.dilate(full,np.ones((5,5),np.uint8),iterations=max(2,int(H_*.08)))
+    # inpaint only on the cap (red cloth), never into the background around it
+    R=A[...,:3].astype(int); red=((R[...,0]>150)&(R[...,1]<90)&(R[...,2]<100)).astype(np.uint8)*255
+    red=cv2.morphologyEx(red,cv2.MORPH_CLOSE,np.ones((9,9),np.uint8)); red=cv2.dilate(red,np.ones((3,3),np.uint8))
+    full=cv2.bitwise_and(full,cv2.bitwise_or(red,cv2.dilate(cv2.fillConvexPoly(np.zeros_like(full),hull+np.array([x0,y0]),255),np.ones((3,3),np.uint8),iterations=2)))
+    # fill from the surrounding cap red only (normalised blur), so no outline or background colour is pulled in
+    K=((red>0)&(full==0)).astype(np.float32); F=A[...,:3].astype(np.float32)*K[...,None]; sig=max(4.,H_*.35)
+    num=cv2.GaussianBlur(F,(0,0),sig); den=cv2.GaussianBlur(K,(0,0),sig)[...,None]
+    fill=np.clip(num/np.maximum(den,1e-4),0,255); mm=(cv2.GaussianBlur(full.astype(np.float32)/255,(0,0),1.5))[...,None]
+    out=A.copy(); out[...,:3]=(A[...,:3]*(1-mm)+fill*mm).round().astype(np.uint8)
+    S=float(min(W_*.85,H_*.95)); pad=int(S*1.2); cy+=S*.12; lay=Image.new('RGBA',(2*pad,2*pad),(0,0,0,0)); d=ImageDraw.Draw(lay)
+    bear(d,pad,pad,S)
+    lay=lay.rotate(-ang if abs(ang)<35 else 0,resample=Image.BICUBIC)
+    im=Image.fromarray(out).convert('RGBA'); im.alpha_composite(lay,(int(cx-pad),int(cy-pad)))
+    return np.array(im.convert(A.shape[2]==4 and 'RGBA' or 'RGB'))
+def match_cat(im,name):
+    cfg=CAT[name]; mode=im.mode; A=np.array(im.convert('RGB'))
+    M=Image.new('L',im.size,0); d=ImageDraw.Draw(M)
+    for p in cfg['poly']: d.polygon(p,fill=255)
+    mask=cat_mask(A,np.array(M).astype(float)/255,cfg.get('it',6),cfg.get('t',.6))
+    rgb,w=recolor_fur(A,mask); A=rgb
+    A=replace_logo(A,cfg['logo'])
+    return Image.fromarray(A).convert(mode if mode in('RGB','RGBA') else 'RGB')
+if __name__=='__main__':
+    import sys,os
+    kit=sys.argv[1]; out=sys.argv[2]
+    for n in CAT:
+        p=os.path.join(kit,'04_tiktok_ui',n); im=Image.open(p); match_cat(im,n).convert('RGB').save(os.path.join(out,n.split('.')[0]+'.png'))
+        print(n)

diff --git a/tools/char_fit.py b/tools/char_fit.py
@@ -1,0 +1,42 @@
+# Character fit table -> src/19_char_fit.js  (reads src/16_more_sprites.js; the character images are NOT changed)
+# For every drawn walk / carry-walk frame: a vertical factor that brings the top of the head to the height of the
+# idle pose shown for the same direction, so a cat does not sink or pop when it starts / stops walking and the
+# 4-frame cycle does not hiccup. Factors are capped to [LO, HI] so heads never look stretched.
+# Also: tray-point overrides where the cut data put the tray on the wrong side.
+#   python3 tools/char_fit.py
+import os,re,json,base64,io
+import numpy as np
+from PIL import Image
+ROOT=os.path.dirname(os.path.dirname(os.path.abspath(__file__)))
+LO,HI=.93,1.09
+s=open(os.path.join(ROOT,'src','16_more_sprites.js'),encoding='utf-8').read(); M=json.loads(s[s.index('{'):s.rindex('}')+1])
+# must match SHEET_REMAP in src/50_render.js: which idle art is shown per direction, and which walk art
+SIDE={'idle':{90:(45,0),270:(315,0)},'walk':{45:(270,1),90:(270,1),315:(270,0)}}
+REMAP={n:SIDE for n in M if n!='chef'}
+REMAP['chef']={'idle':{270:(90,1)},'walk':{}}
+REMAP['cat04']={'idle':{90:(45,0),270:(315,0),45:(315,1),135:(225,1)},'walk':SIDE['walk']}
+def top(m):
+    A=np.array(Image.open(io.BytesIO(base64.b64decode(m['src'].split(',')[1]))).convert('RGBA'))[...,3]>60
+    ys=np.nonzero(A.any(1))[0]; return (m['ay']-ys.min())*m['s']
+fit={}; report=[]
+for n,c in M.items():
+    rm=REMAP[n]; f={}
+    idle_top={d:top(c['idle_%d'%rm['idle'].get(d,(d,0))[0]]) for d in range(0,360,45)}
+    for d in range(0,360,45):
+        for pre in ('walk','cwalk'):
+            wd=rm['walk'].get(d,(d,0))[0] if pre=='walk' else d
+            i=1
+            while '%s%d_%d'%(pre,i,wd) in c:
+                k='%s%d_%d'%(pre,i,wd); v=float(np.clip(idle_top[d]/top(c[k]),LO,HI))
+                f.setdefault(k,{})[str(d)]=round(v,3); i+=1
+    # the same frame can serve two directions (mirrored): keep one value per direction
+    fit[n]=f
+    for d in range(0,360,45):
+        vals=[(k,v[str(d)]) for k,v in f.items() if str(d) in v and k.startswith('walk')]
+        if vals: report.append('%-8s %3d idle %5.1f  walk %s'%(n,d,idle_top[d],' '.join('%.3f'%v for _,v in vals)))
+tray={'chef':{'cwalk%d_180'%i:[.5,.5] for i in range(1,5)}}
+js=('/* 19_char_fit.js — per-frame vertical fit of walk / carry-walk frames to the idle head height, and tray-point overrides.\n'
+    '   AUTO-GENERATED by tools/char_fit.py from src/16_more_sprites.js (character art unchanged). */\n'
+    'const CHAR_FIT='+json.dumps(fit,separators=(',',':'))+';\nconst CHAR_TRAY='+json.dumps(tray,separators=(',',':'))+';\n')
+open(os.path.join(ROOT,'src','19_char_fit.js'),'w',encoding='utf-8').write(js)
+print('\n'.join(report)); print(len(js),'bytes')

diff --git a/tools/sakura_art.py b/tools/sakura_art.py
@@ -6,6 +6,7 @@ import sys,os,io,re,json,base64,glob
 import numpy as np
 from PIL import Image,ImageDraw,ImageFont,ImageFilter
 from scipy import ndimage
+sys.path.insert(0,os.path.dirname(os.path.abspath(__file__))); from sakura_cat import match_cat   # kit cat -> the player's look
 ROOT=os.path.dirname(os.path.dirname(os.path.abspath(__file__)))
 KIT=sys.argv[1] if len(sys.argv)>1 else os.environ.get('SAKURA_KIT','/home/claude/jp/src_zip')
 FONT=os.environ.get('SAKURA_FONT',os.path.join(ROOT,'tools','fonts','Fredoka.ttf'))
@@ -132,16 +133,19 @@ def blossom(im,cx,cy,R,petal=(255,176,200),dark=(216,88,132),core=(255,214,92)):
     d.ellipse([cx-R*.2,cy-R*.2,cx+R*.2,cy+R*.2],fill=core+(255,),outline=dark+(255,),width=max(2,R//24))
 JP='04_tiktok_ui/'
 ui={}
-ui['loading_bg.jpg']=resize_w(logo_sakura(Image.open(kit('loading_bg_jp.jpg'))),941)
-ha=Image.open(kit('pop_home_art_jp.jpg')).convert('RGB'); W=ha.width/1280
+CAT_IMG=lambda n: match_cat(Image.open(kit(n)),n)
+ui['loading_bg.jpg']=resize_w(logo_sakura(CAT_IMG('loading_bg_jp.jpg')),941)
+ha=CAT_IMG('pop_home_art_jp.jpg').convert('RGB'); W=ha.width/1280
 ui['pop_home_art.jpg']=resize_w(retext(ha,(int(470*W),int(345*W),int(830*W),int(405*W)),'Meow Sakura',(255,255,255),int(46*W),wght=560),640)
-rp=Image.open(kit('pop_revisit_profile_jp.jpg')).convert('RGB'); W=rp.width/1048
+rp=CAT_IMG('pop_revisit_profile_jp.jpg').convert('RGB'); W=rp.width/1048
 ui['pop_revisit_profile.jpg']=resize_w(retext(rp,(int(170*W),int(232*W),int(905*W),int(300*W)),'Click Meow Sakura in profile.',(72,36,24),int(52*W),wght=700),640)
-for n in ['pop_home_steps','pop_revisit_coins','pop_share_art']: ui[n+'.jpg']=resize_w(Image.open(kit(n+'_jp.jpg')).convert('RGB'),640)
+for n in ['pop_home_steps','pop_revisit_coins']: ui[n+'.jpg']=resize_w(Image.open(kit(n+'_jp.jpg')).convert('RGB'),640)
+ui['pop_share_art.jpg']=resize_w(CAT_IMG('pop_share_art_jp.jpg').convert('RGB'),640)
 for n in ['btn_home','btn_revisit','btn_share']:
     b=tidy(Image.open(kit(n+'_jp.png')),minfrac=.02,maxside=10000); ui[n+'.png']=b.resize((150,round(150*b.height/b.width)),Image.LANCZOS)
 ui['paw_thumb.png']=tidy(Image.open(kit('paw_thumb_jp.png')),maxside=72)
-for n,w in [('icon_192',192),('icon_512',512)]: ui[n+'.png']=Image.open(kit(n+'_jp.png')).convert('RGB').resize((w,w),Image.LANCZOS)
+icon=CAT_IMG('icon_512_jp.png').convert('RGB')   # one icon art for both sizes (the kit's two icons differ)
+for n,w in [('icon_192',192),('icon_512',512)]: ui[n+'.png']=icon.resize((w,w),Image.LANCZOS)
 for n,im in ui.items():
     p=os.path.join(MIN,n)
     if n.endswith('.jpg'): im.convert('RGB').save(p,quality=88,optimize=True)

diff --git a/README.md b/README.md
@@ -2,7 +2,7 @@
 
 Idle tycoon mini game for **TikTok Minis** (native canvas build) in the Meow series: the Meow Burger game (same cats, same menu, same economy) moved into a Japanese sakura restaurant. It runs on the Meow Pizza v4.8 engine.
 
-- Current version: **v1.0.0** (`VERSION` in `src/00_config.js`)
+- Current version: **v1.0.1** (`VERSION` in `src/00_config.js`)
 - TikTok App ID / HS Game ID: not set yet. Meow Sakura is a new game, so it needs its own App ID, SDK key and ad units in `src/native/hs-config.json` (Meow Burger's were `7699569778830231573`).
 - Save key: `meowsakura.v3` (separate from Meow Burger saves).
 - Ads, missions, share and cloud save run through the HS TikTok SDK kit (`vendor/hs-tiktok-sdk-1.0.7`).
@@ -22,6 +22,9 @@ Idle tycoon mini game for **TikTok Minis** (native canvas build) in the Meow ser
 - `src/11_sakura.js`: code-drawn theme pieces (blossoms, paper lanterns, sprigs, pennants, noren curtains, petals).
 - Code-drawn restaurant: plank walls with lanterns and sakura sprigs (`30_world.js`), sakura trees (`24_env.js`), yatai stalls with pink roofs, noren and lanterns (`26_stations_code.js`), pink sakura VIP rug and table, pennants, pastel balloon arch (`50_render.js`).
 - `tools/sakura_art.py KIT_DIR`: swaps prop/food sprites and the TikTok UI art from the unzipped `meow-jp-full` kit, relettering "Meow Burger" to "Meow Sakura" on the loading logo and popups (font: `tools/fonts/Fredoka.ttf`, OFL).
+- `tools/sakura_cat.py`: recolours the kit's cat in the loading / icon / popup art to the player's look (called by `sakura_art.py`).
+- `tools/char_fit.py` -> `src/19_char_fit.js`: walk-frame head-height fit and tray-point overrides (keep its remap table in step with `SHEET_REMAP` in `50_render.js`).
+- `tests/charstrip.js`: renders a character in 8 directions in the real renderer (`node tests/charstrip.js out.png player 1`).
 - `tests/shot.js`: screenshots of the web build for art review (`SAVE=state.json OUT=dir NOHUD=1 node tests/shot.js`; a late-game `state.json` comes from `SAVEOUT=state.json node tests/bot.js`).
 
 ## Layout

diff --git a/CHANGELOG.md b/CHANGELOG.md
@@ -2,6 +2,13 @@
 
 Meow Sakura continues from Meow Burger v1.6.4 (history below).
 
+## v1.0.1 — Characters and matching art
+- Player: the 4 drawn walk frames are used facing the camera and facing away (before: idle art with stepping legs); carrying away from the camera keeps the tray on one side; idle facing screen-right uses the matching profile.
+- Walk and carry-walk frames are fitted to the idle head height (`src/19_char_fit.js`, `tools/char_fit.py`), so cats no longer dip when they start walking diagonally or sideways. Character images unchanged.
+- Side characters (cashier, waiter, cleaner, customers, VIPs, manager): the one drawn walk now also serves the diagonal front directions (mirrored), and standing sideways shows the front three-quarter view instead of a back view or a cut-off face; cat04 uses clean neighbour views where its tail was clipped.
+- Loading, icon, share / home / revisit popups: the kit's grey cat is recoloured to the player's orange and its cap logo replaced by the player's white bear face (`tools/sakura_cat.py`). Both icon sizes now use the same art.
+- Map stage pictures: pink roofs, sakura trees and petals.
+
 ## v1.0.0 — Meow Sakura
 - New name and restaurant: a Japanese sakura diner. All cats (player, staff, customers, VIP) are unchanged.
 - Walls: wooden planks with paper lanterns and sakura sprigs along the cap; right baseboard in wood. Trees are sakura trees; petals on the lawn.
